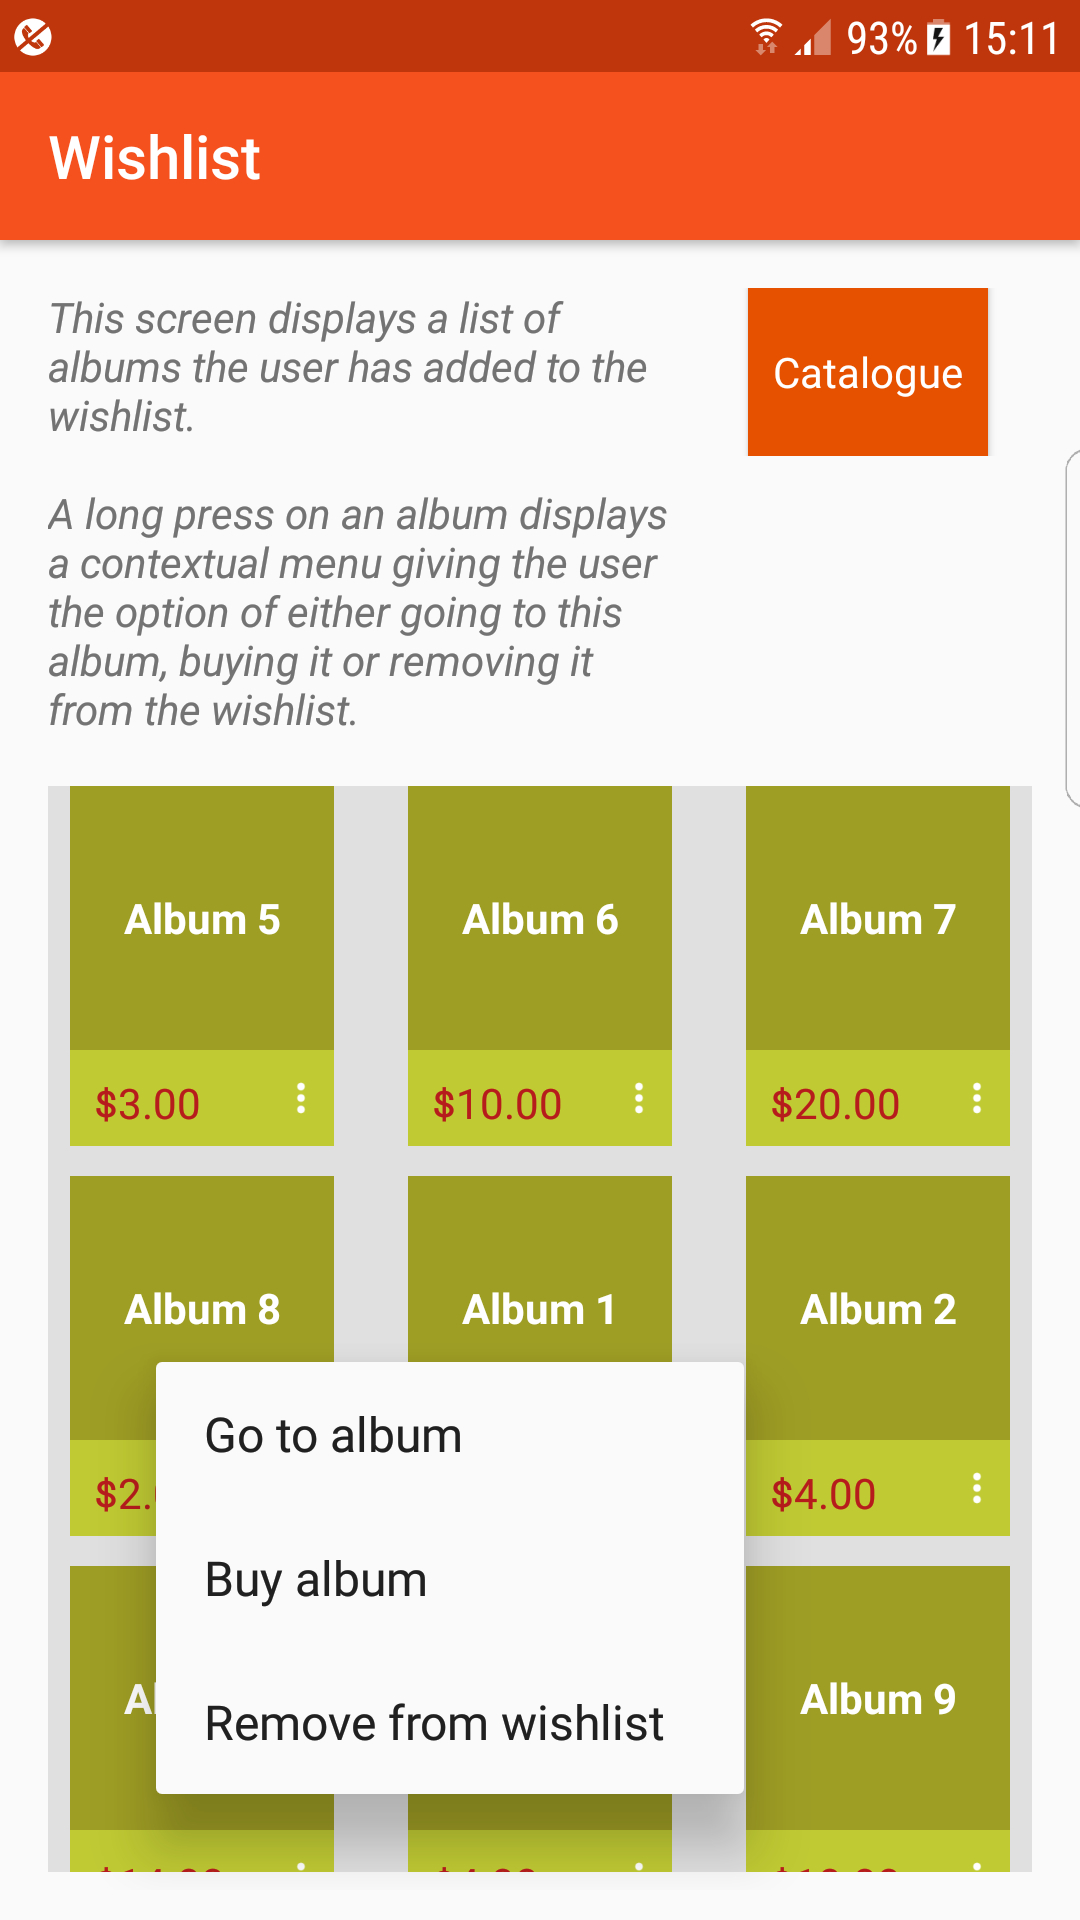
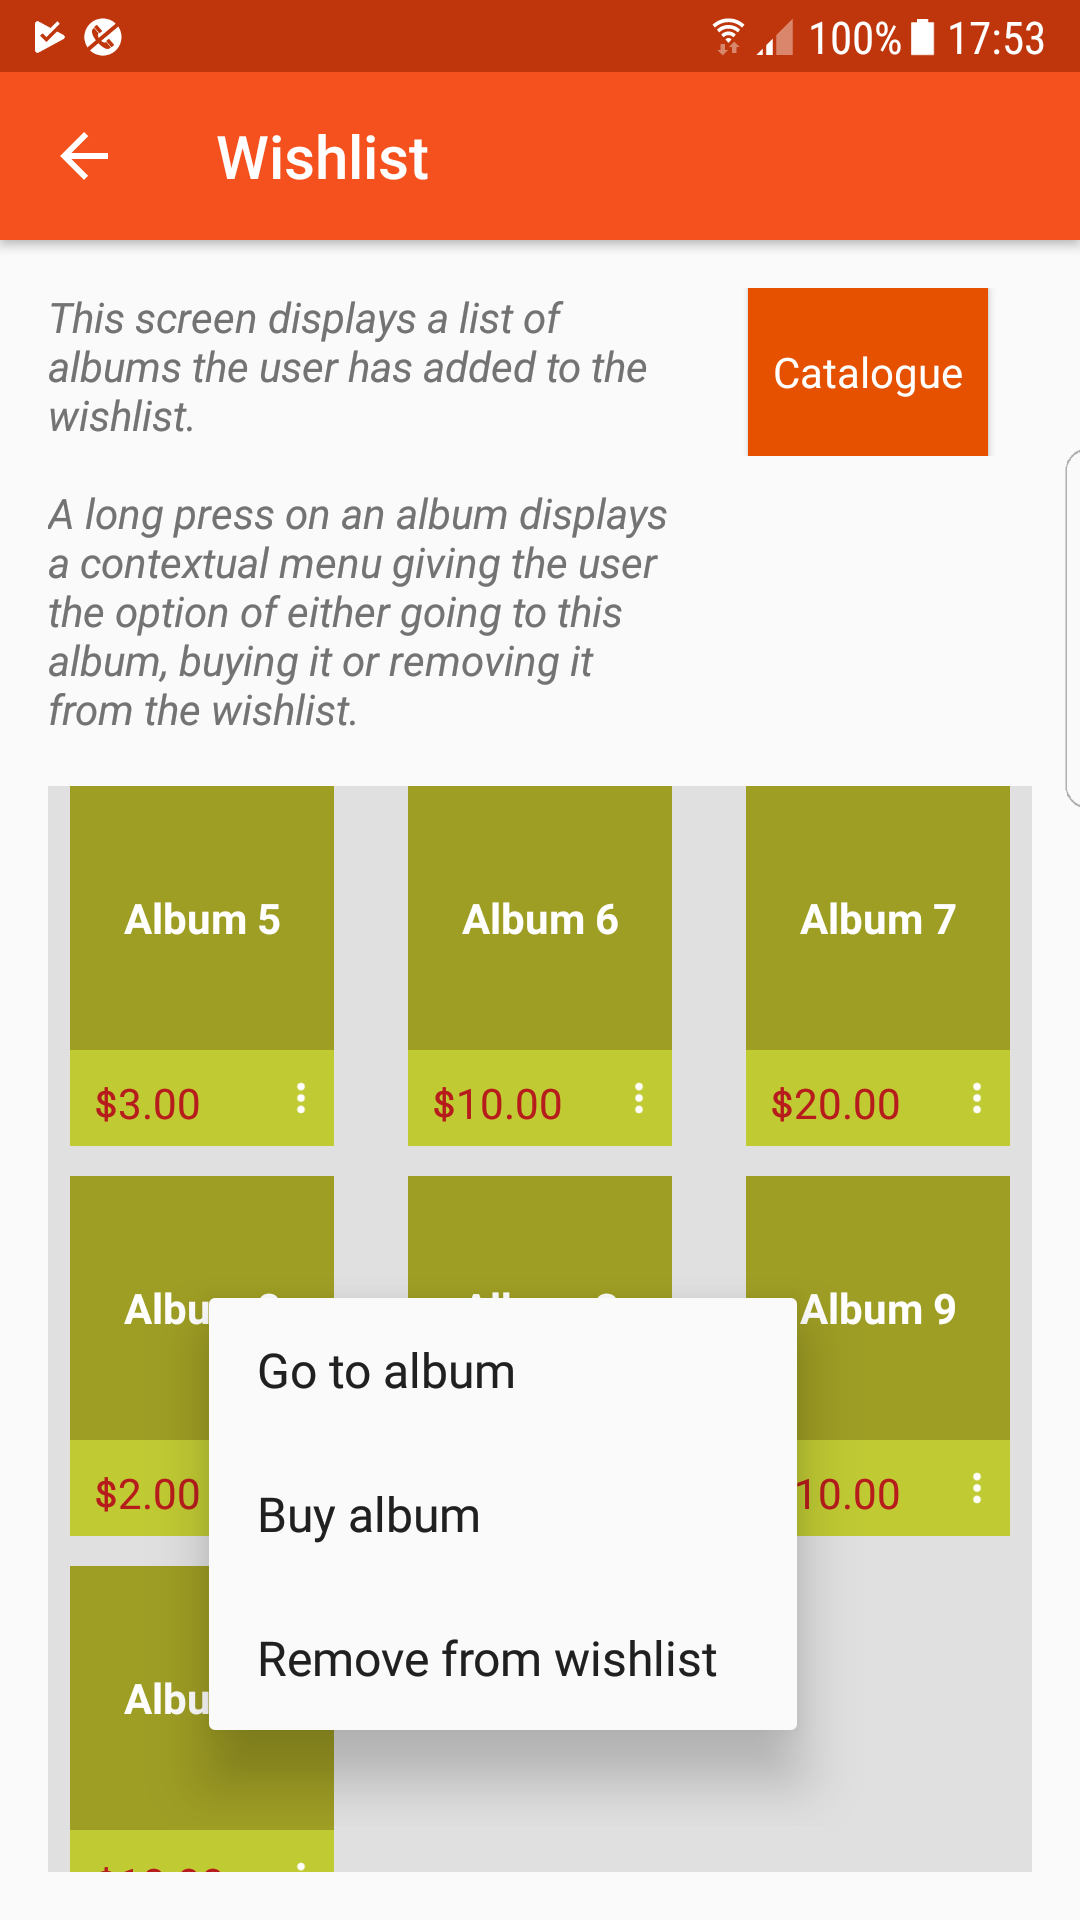
Specified a parent activity for each activity, except for CatalogueActivity that is the main activity.  On branch 015_Changes_after_project_review01  Changes to be committed: 	modified:   README.md 	modified:   app/src/main/AndroidManifest.xml 	modified:   app/src/main/java/com/oz_heng/apps/android/

diff --git a/app/src/main/java/com/oz_heng/apps/android/musicshop/WishlistActivity.java b/app/src/main/java/com/oz_heng/apps/android/musicshop/WishlistActivity.java
@@ -2,7 +2,7 @@ package com.oz_heng.apps.android.musicshop;
 
 import android.content.Intent;
 import android.os.Bundle;
-import android.support.v7.app.ActionBar;
+import android.support.v4.app.NavUtils;
 import android.support.v7.app.AppCompatActivity;
 import android.view.ContextMenu;
 import android.view.MenuInflater;
@@ -32,10 +32,9 @@ public class WishlistActivity extends AppCompatActivity {
         super.onCreate(savedInstanceState);
         setContentView(R.layout.activity_wishlist);
 
-        // set the "Wishlist" title in the action bar.
-        ActionBar actionBar = getSupportActionBar();
-        if (actionBar != null) {
-            actionBar.setTitle(getString(R.string.wishlist));
+        // To allow Up navigation in the action bar.
+        if (getActionBar() != null) {
+            getActionBar().setDisplayHomeAsUpEnabled(true);
         }
 
         // Restore wishlist data from SharedPreferences
@@ -72,6 +71,17 @@ public class WishlistActivity extends AppCompatActivity {
                 startActivity(intent);
             }
         });
+    }
+
+    @Override
+    public boolean onOptionsItemSelected(MenuItem item) {
+        switch (item.getItemId()) {
+            // Respond to the action bar's Up/Home button
+            case android.R.id.home:
+                NavUtils.navigateUpFromSameTask(this);
+                return true;
+        }
+        return super.onOptionsItemSelected(item);
     }
 
     @Override

diff --git a/app/src/main/java/com/oz_heng/apps/android/musicshop/ReadMoreActivity.java b/app/src/main/java/com/oz_heng/apps/android/musicshop/ReadMoreActivity.java
@@ -4,6 +4,7 @@ import android.content.Intent;
 import android.os.Bundle;
 import android.support.v7.app.ActionBar;
 import android.support.v7.app.AppCompatActivity;
+import android.view.MenuItem;
 import android.view.View;
 import android.widget.Button;
 
@@ -17,6 +18,11 @@ public class ReadMoreActivity extends AppCompatActivity {
     protected void onCreate(Bundle savedInstanceState) {
         super.onCreate(savedInstanceState);
         setContentView(R.layout.activity_read_more);
+
+        // To allow Up navigation in the action bar.
+        if (getActionBar() != null) {
+            getActionBar().setDisplayHomeAsUpEnabled(true);
+        }
 
         // Get the Album number passed through the Intent.
         Intent intent = getIntent();
@@ -39,5 +45,18 @@ public class ReadMoreActivity extends AppCompatActivity {
                 startActivity(intent);
             }
         });
+    }
+
+    @Override
+    public boolean onOptionsItemSelected(MenuItem item) {
+        switch (item.getItemId()) {
+            // Respond to the action bar's Up/Home button
+            case android.R.id.home:
+                Intent albumIntent = new Intent(this, AlbumActivity.class);
+                albumIntent.putExtra(ALBUM_NUMBER_ARG, mAlbumNumber);
+                startActivity(albumIntent);
+                return true;
+        }
+        return super.onOptionsItemSelected(item);
     }
 }

diff --git a/app/src/main/java/com/oz_heng/apps/android/musicshop/PaymentActivity.java b/app/src/main/java/com/oz_heng/apps/android/musicshop/PaymentActivity.java
@@ -4,6 +4,7 @@ import android.content.Intent;
 import android.os.Bundle;
 import android.support.v7.app.ActionBar;
 import android.support.v7.app.AppCompatActivity;
+import android.view.MenuItem;
 import android.view.View;
 import android.widget.Button;
 
@@ -18,6 +19,11 @@ public class PaymentActivity extends AppCompatActivity {
     protected void onCreate(Bundle savedInstanceState) {
         super.onCreate(savedInstanceState);
         setContentView(R.layout.activity_payment);
+
+        // To allow Up navigation in the action bar.
+        if (getActionBar() != null) {
+            getActionBar().setDisplayHomeAsUpEnabled(true);
+        }
 
         // Get the Album number passed through the Intent.
         Intent intent = getIntent();
@@ -41,5 +47,18 @@ public class PaymentActivity extends AppCompatActivity {
                 finish();
             }
         });
+    }
+
+    @Override
+    public boolean onOptionsItemSelected(MenuItem item) {
+        switch (item.getItemId()) {
+            // Respond to the action bar's Up/Home button
+            case android.R.id.home:
+                Intent albumIntent = new Intent(this, AlbumActivity.class);
+                albumIntent.putExtra(ALBUM_NUMBER_ARG, mAlbumNumber);
+                startActivity(albumIntent);
+                return true;
+        }
+        return super.onOptionsItemSelected(item);
     }
 }

diff --git a/app/src/main/java/com/oz_heng/apps/android/musicshop/AlbumActivity.java b/app/src/main/java/com/oz_heng/apps/android/musicshop/AlbumActivity.java
@@ -2,8 +2,10 @@ package com.oz_heng.apps.android.musicshop;
 
 import android.content.Intent;
 import android.os.Bundle;
+import android.support.v4.app.NavUtils;
 import android.support.v7.app.ActionBar;
 import android.support.v7.app.AppCompatActivity;
+import android.view.MenuItem;
 import android.view.View;
 import android.widget.AdapterView;
 import android.widget.Button;
@@ -25,6 +27,11 @@ public class AlbumActivity extends AppCompatActivity {
     protected void onCreate(Bundle savedInstanceState) {
         super.onCreate(savedInstanceState);
         setContentView(R.layout.activity_album);
+
+        // To allow Up navigation in the action bar.
+        if (getActionBar() != null) {
+            getActionBar().setDisplayHomeAsUpEnabled(true);
+        }
 
         // Get the Album number passed through the Intent.
         Intent intent = getIntent();
@@ -133,6 +140,16 @@ public class AlbumActivity extends AppCompatActivity {
                 startActivity(intent);
             }
         });
+    }
 
+    @Override
+    public boolean onOptionsItemSelected(MenuItem item) {
+        switch (item.getItemId()) {
+            // Respond to the action bar's Up/Home button
+            case android.R.id.home:
+                NavUtils.navigateUpFromSameTask(this);
+                return true;
+        }
+        return super.onOptionsItemSelected(item);
     }
 }

diff --git a/app/src/main/java/com/oz_heng/apps/android/musicshop/CatalogueActivity.java b/app/src/main/java/com/oz_heng/apps/android/musicshop/CatalogueActivity.java
@@ -2,7 +2,6 @@ package com.oz_heng.apps.android.musicshop;
 
 import android.content.Intent;
 import android.os.Bundle;
-import android.support.v7.app.ActionBar;
 import android.support.v7.app.AppCompatActivity;
 import android.view.ContextMenu;
 import android.view.MenuInflater;
@@ -82,12 +81,6 @@ public class CatalogueActivity extends AppCompatActivity {
     protected void onCreate(Bundle savedInstanceState) {
         super.onCreate(savedInstanceState);
         setContentView(R.layout.activity_catalogue);
-
-        // set the title in the action bar.
-        ActionBar actionBar = getSupportActionBar();
-        if (actionBar != null) {
-            actionBar.setTitle(getString(R.string.catalogue));
-        }
 
         // Restore wishlist data from SharedPreferences
         restoreWishlist(this);

diff --git a/README.md b/README.md
@@ -6,7 +6,7 @@ The main screen of the app displays a GridView of albums.
 * A long press on an album displays a contextual menu allowing the user the option of either going to the album, buying it or adding it to the wishlist.
 * A click on the Wishlist button will display the Wishlist screen where the user can see all the albums they have added to the wishlist. From there, the user can either remove an album from the wishlist, or also go to the album or buy it.
 
-This app is not a full-fledged music shop application. The payment of an album is not implemented, neither is the playback of a song. 
+This app is not a full-fledged music shop application. The payment of an album is not implemented, neither is the playback of a song.
 
 ## IDE
 * Android Studio 2.3.3
@@ -16,10 +16,8 @@ This app is not a full-fledged music shop application. The payment of an album i
 * Emulator and Virtual device: Nexus SX API 25
 
 ## Screenshots
-<img src="https://raw.githubusercontent.com/PackHg/ABND-MusicShop/master/screenshots/screen01.png" width="300">
-<img src="https://raw.githubusercontent.com/PackHg/ABND-MusicShop/master/screenshots/screen02.png" width="300">
-<img src="https://raw.githubusercontent.com/PackHg/ABND-MusicShop/master/screenshots/screen03.png" width="300">
-<img src="https://raw.githubusercontent.com/PackHg/ABND-MusicShop/master/screenshots/screen04.png" width="300">
+<img src="https://raw.githubusercontent.com/PackHg/ABND-MusicShop/master/screenshots/screen01.png" width="300"> <img src="https://raw.githubusercontent.com/PackHg/ABND-MusicShop/master/screenshots/screen02.png" width="300">
+<img src="https://raw.githubusercontent.com/PackHg/ABND-MusicShop/master/screenshots/screen03.png" width="300"> <img src="https://raw.githubusercontent.com/PackHg/ABND-MusicShop/master/screenshots/screen04.png" width="300">
 <img src="https://raw.githubusercontent.com/PackHg/ABND-MusicShop/master/screenshots/screen05.png" width="300">
 
 ## License
